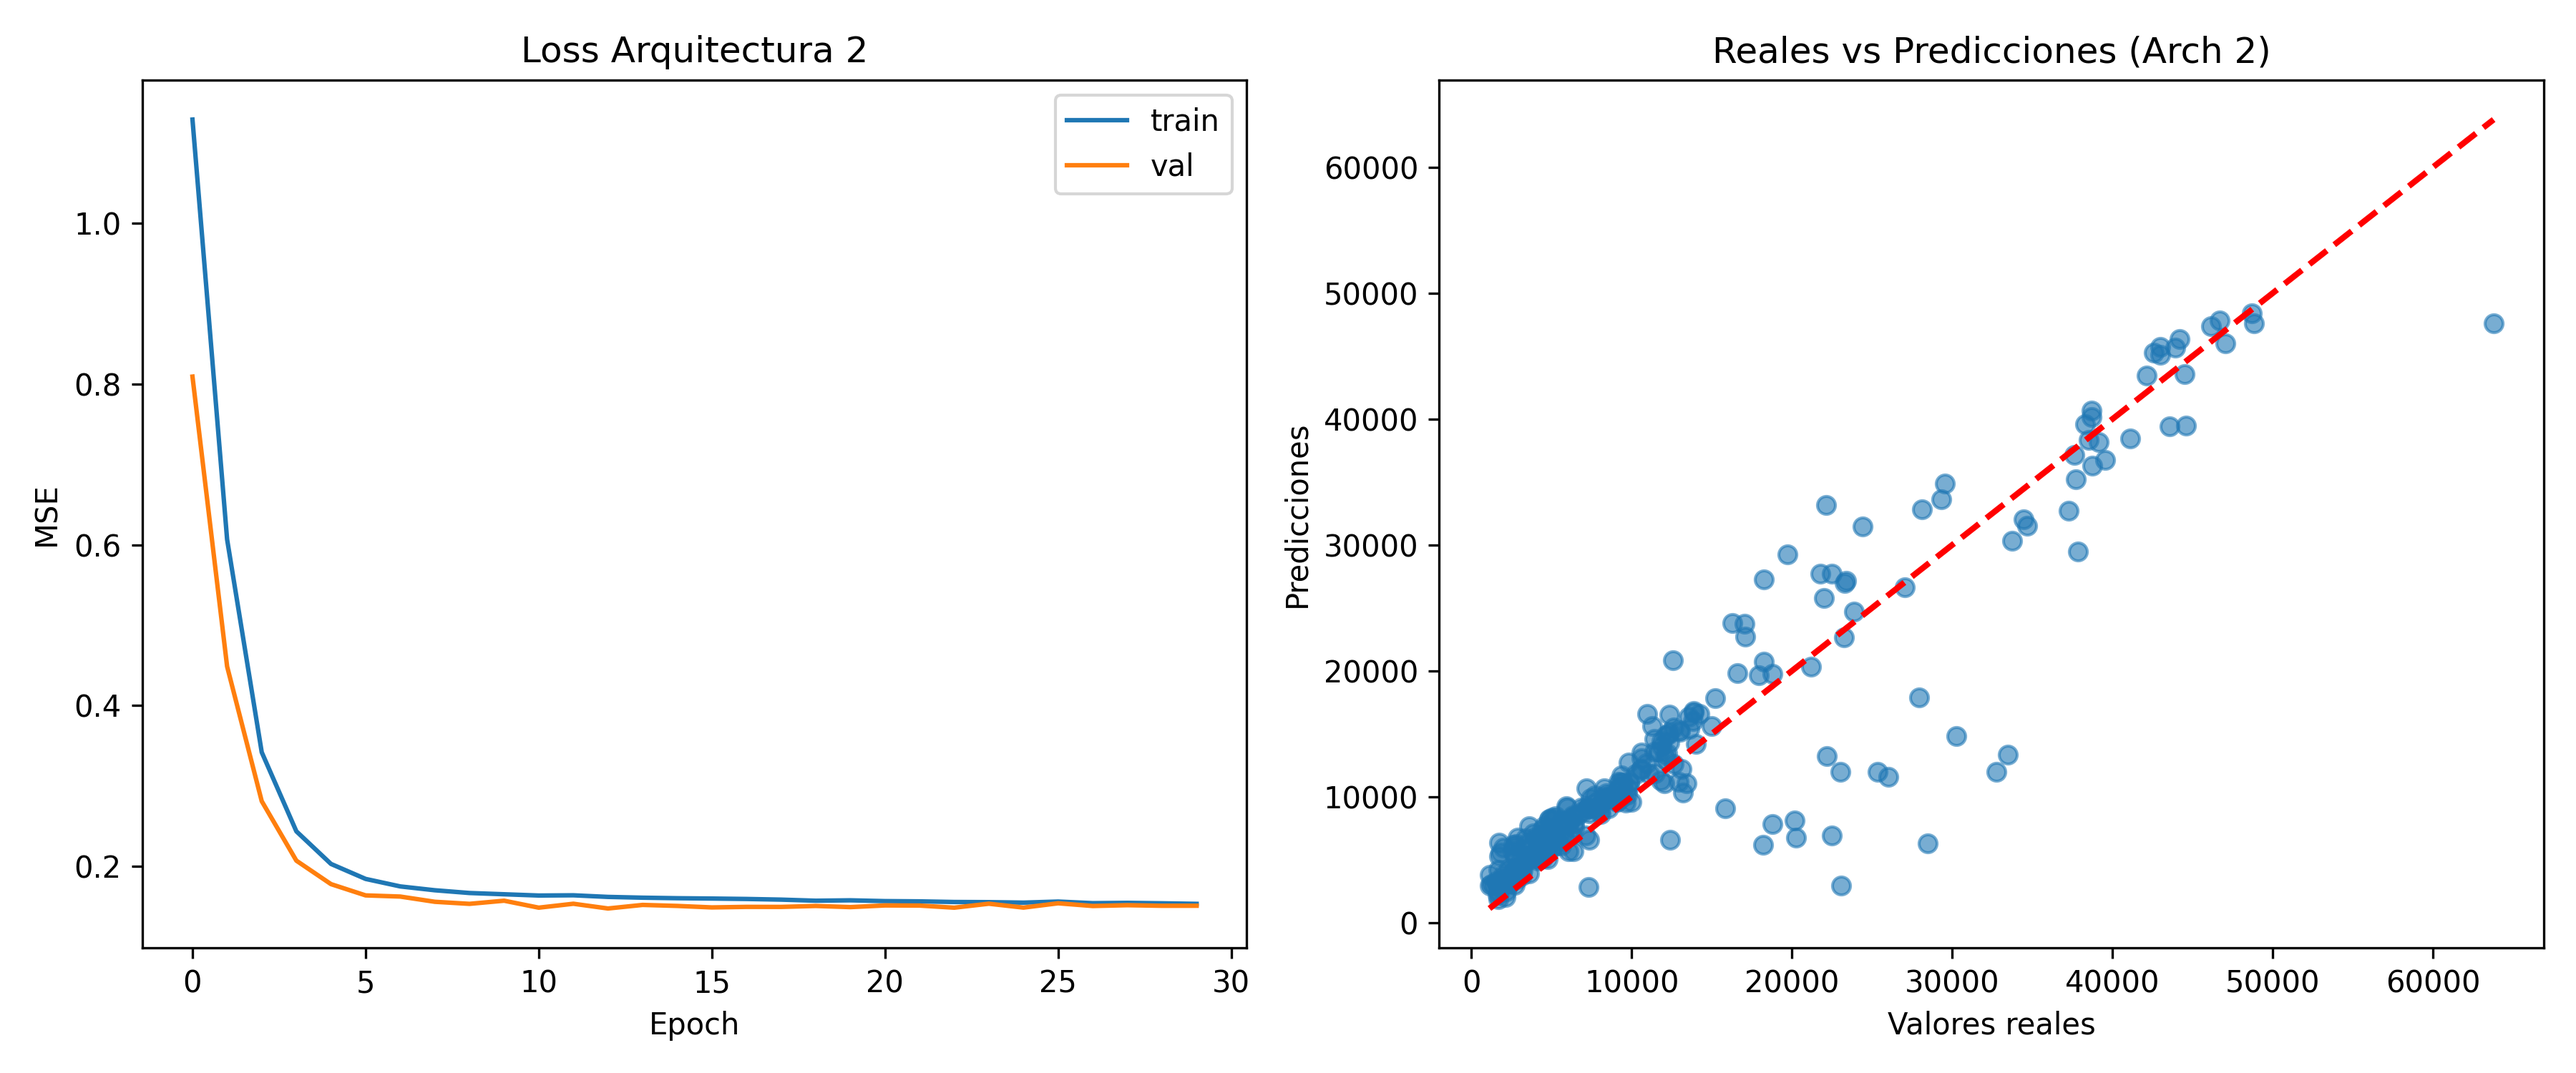
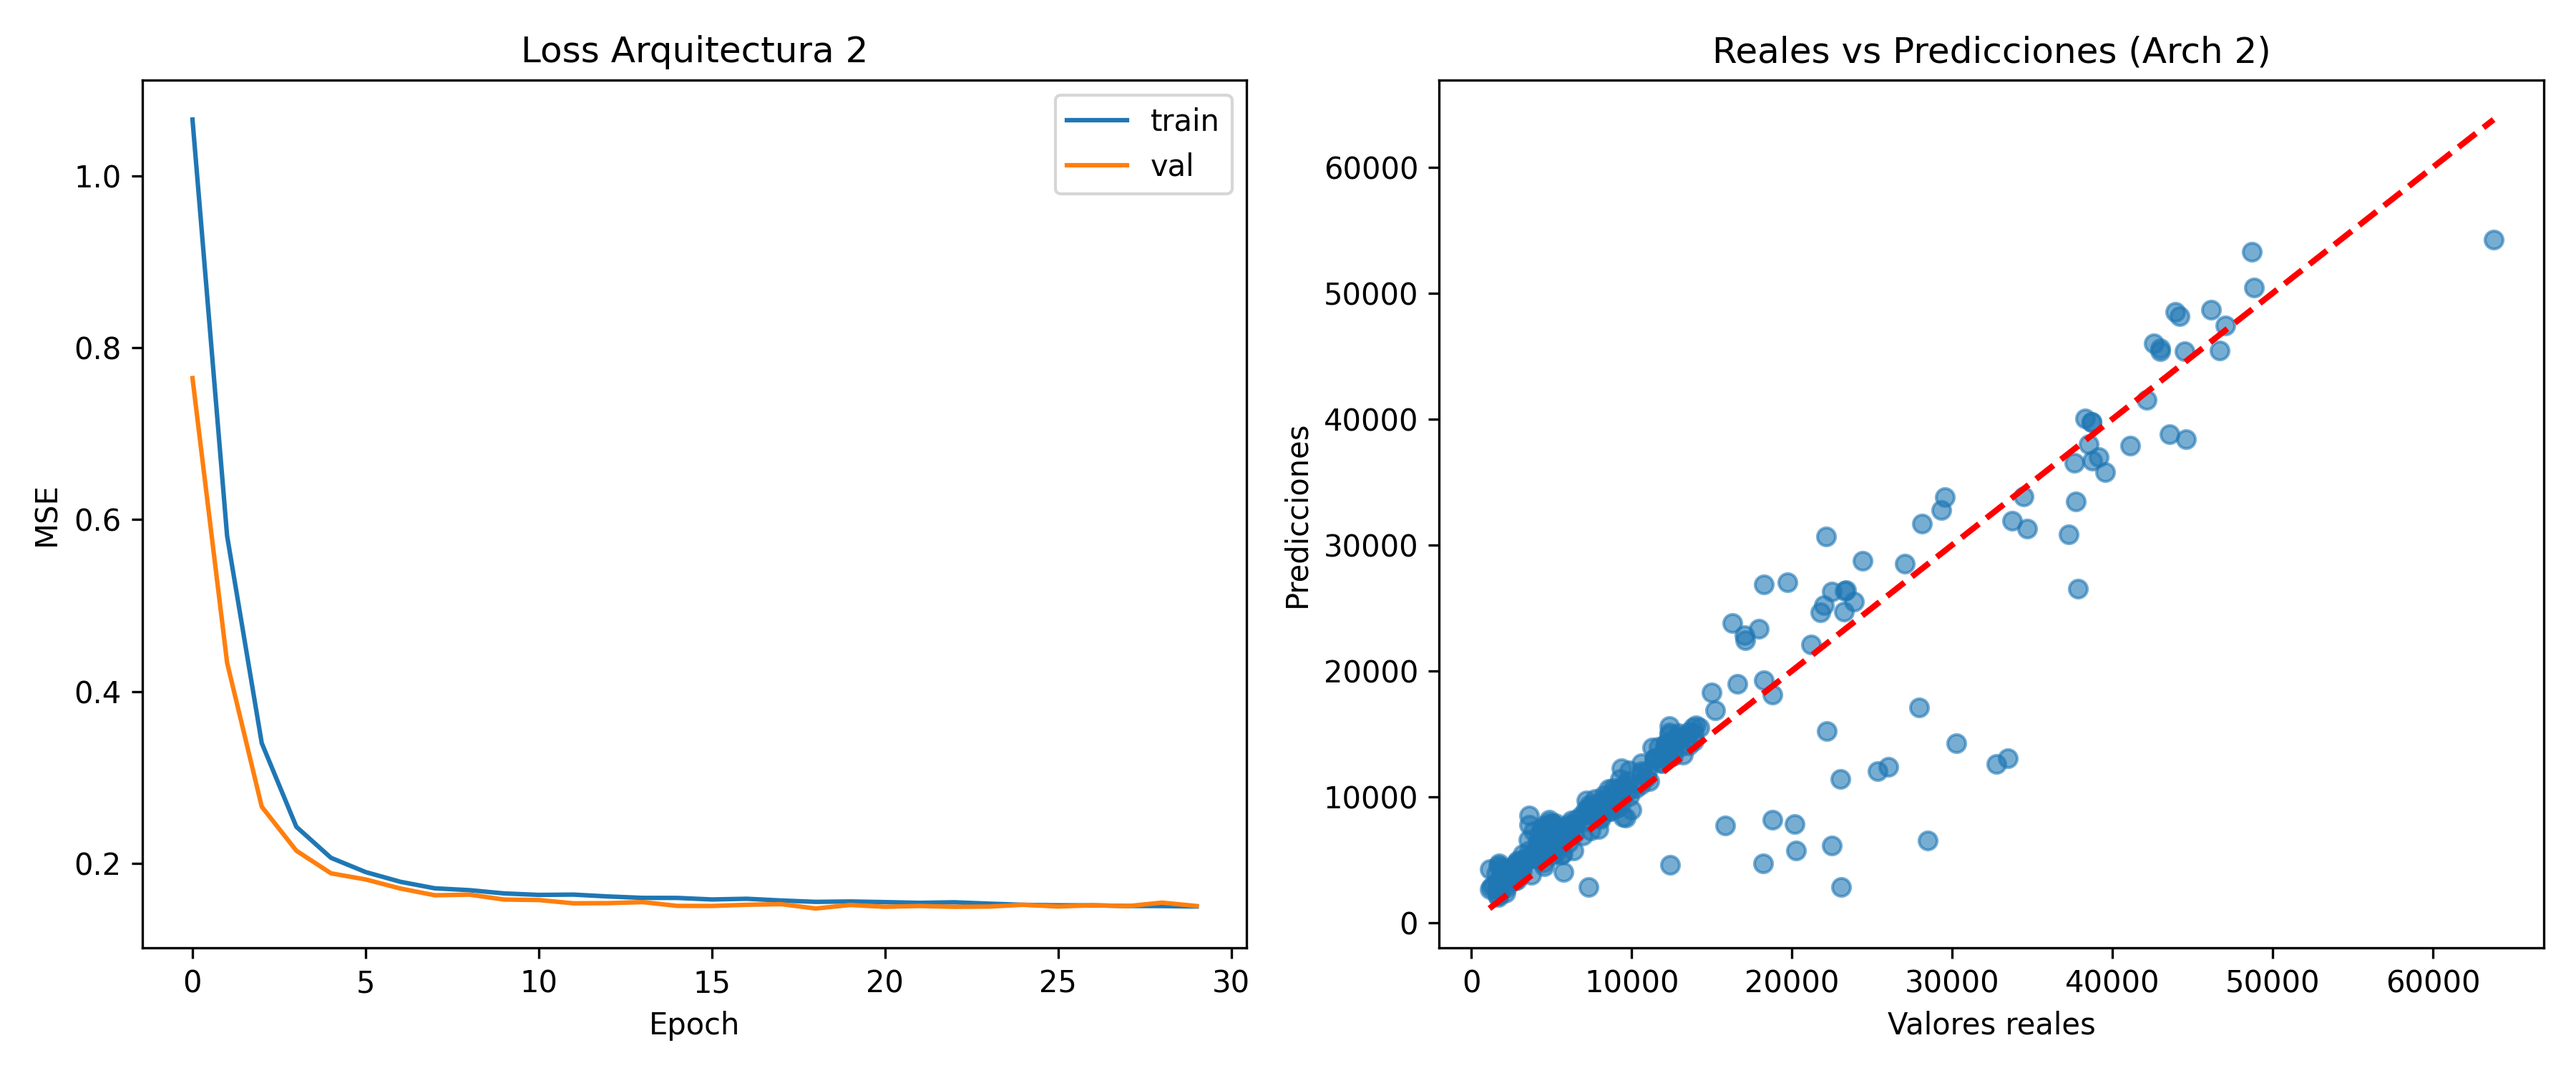
Cambio en esemble

diff --git a/models/src/esemble.py b/models/src/esemble.py
@@ -1,9 +1,13 @@
 import matplotlib.pyplot as plt
 import numpy as np
 import pandas as pd
+
 from sklearn.ensemble import BaggingRegressor
 from sklearn.tree import DecisionTreeRegressor
 from sklearn.metrics import mean_squared_error, r2_score, mean_absolute_error
+from sklearn.model_selection import KFold, cross_validate 
+
+
 from .load_data import load_data
 from .fig import save_fig
 
@@ -11,6 +15,14 @@ def bagging_regression(X_train, X_test, Y_train, Y_test):
    
     bag_model = BaggingRegressor(DecisionTreeRegressor(), n_estimators=500,
                             max_samples=100, n_jobs=-1, random_state=42)
+    
+    kf = KFold(n_splits=5, shuffle=True, random_state=42)
+    cv_results = cross_validate(bag_model, X_train, Y_train, cv=kf, 
+                                scoring=('neg_mean_squared_error', 'r2'), n_jobs=-1)
+    
+    print("\nResultados K-Fold (K=5)")
+    print(f"  CV MSE Promedio: {-cv_results['test_neg_mean_squared_error'].mean():,.2f}")
+    print(f"  CV R² Promedio:  {cv_results['test_r2'].mean():.4f}\n")
     
     bag_model.fit(X_train, Y_train)
     
